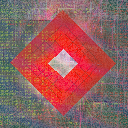
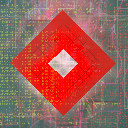
Implement static, part 2

diff --git a/jars/src/org/histidine/chatter/combat/ChatterCombatPlugin.java b/jars/src/org/histidine/chatter/combat/ChatterCombatPlugin.java
@@ -50,6 +50,7 @@ import org.histidine.chatter.ChatterLine;
 import org.histidine.chatter.ChatterLine.MessageType;
 import org.histidine.chatter.ChatterDataManager;
 import org.histidine.chatter.utils.StringHelper;
+import org.lazywizard.lazylib.MathUtils;
 import org.lazywizard.lazylib.ui.FontException;
 import org.lazywizard.lazylib.ui.LazyFont;
 import org.lazywizard.lazylib.ui.LazyFont.DrawableString;
@@ -723,16 +724,19 @@ public class ChatterCombatPlugin implements EveryFrameCombatPlugin {
 			String name = fleet.getMemoryWithoutUpdate().getString("$chatter_introSplash_name");
 			String sprite = fleet.getMemoryWithoutUpdate().getString("$chatter_introSplash_sprite");
 			String sound = fleet.getMemoryWithoutUpdate().getString("$chatter_introSplash_sound");
+			Boolean hasStatic = null;
+			if (fleet.getMemoryWithoutUpdate().contains("$chatter_introSplash_maxPlayerStrength"))
+				hasStatic = fleet.getMemoryWithoutUpdate().getBoolean("$chatter_introSplash_static");
 			Float maxStrength = null;
 			if (fleet.getMemoryWithoutUpdate().contains("$chatter_introSplash_maxPlayerStrength"))
-				fleet.getMemoryWithoutUpdate().getFloat("$chatter_introSplash_maxPlayerStrength");
+				maxStrength = fleet.getMemoryWithoutUpdate().getFloat("$chatter_introSplash_maxPlayerStrength");
 			
 			// Don't show splash if the player's fleet sufficiently overpowers the "boss" fleet
 			if (maxStrength != null && maxStrength < playerStrength)
 				continue;
 			
 			// this fleet has custom intro settings, it's a priority
-			if (name != null || sprite != null || maxStrength != null || sound != null) 
+			if (name != null || sprite != null || maxStrength != null || sound != null || hasStatic != null) 
 			{
 				return fleet;
 			}
@@ -797,27 +801,32 @@ public class ChatterCombatPlugin implements EveryFrameCombatPlugin {
 			log.info("Picked fleet " + enemy.getNameWithFactionKeepCase());
 
 			lastBattleHash = enemy.hashCode();
+			String flag = enemy.getFlagship().getHullId();
 
 			String name = enemy.getMemoryWithoutUpdate().getString("$chatter_introSplash_name");
 			if (name == null && enemy.getFlagship() != null) 
-				name = MagicSettings.getStringMap("chatter", "flagshipToNameMap").get(enemy.getFlagship().getHullId());
+				name = MagicSettings.getStringMap("chatter", "flagshipToNameMap").get(flag);
 			if (name == null && enemy.getName() != null) name = enemy.getName().toUpperCase();
 			if (name == null) name = "ERROR no name found";
 			
 			String image = enemy.getMemoryWithoutUpdate().getString("$chatter_introSplash_sprite");
 			if (image == null && enemy.getFlagship() != null) 
-				image = MagicSettings.getStringMap("chatter", "flagshipToLogoMap").get(enemy.getFlagship().getHullId());
+				image = MagicSettings.getStringMap("chatter", "flagshipToLogoMap").get(flag);
 			if (image == null) image = MagicSettings.getStringMap("chatter", "factionRoundels").get(enemy.getFaction().getId());
 			if (image == null) image = enemy.getFaction().getCrest();
 			
 			String sound = enemy.getMemoryWithoutUpdate().getString("$chatter_introSplash_sound");
 			if (sound == null && enemy.getFlagship() != null) 
-				sound = MagicSettings.getStringMap("chatter", "flagshipToSoundMap").get(enemy.getFlagship().getHullId());
+				sound = MagicSettings.getStringMap("chatter", "flagshipToSoundMap").get(flag);
 			if (sound == null) sound = MagicSettings.getStringMap("chatter", "factionSounds").get(enemy.getFaction().getId());
 			
 			intro = new FleetIntro(name, image, sound);
-		} else {
-			return;
+			
+			if (enemy.getMemoryWithoutUpdate().contains("$chatter_introSplash_maxPlayerStrength"))
+				intro.hasStatic = enemy.getMemoryWithoutUpdate().getBoolean("$chatter_introSplash_static");
+			else if (MagicSettings.getList("chatter", "flagshipsWithStatic").contains(flag)) {
+				intro.hasStatic = true;
+			}
 		}
 	}
 	
@@ -1348,6 +1357,7 @@ public class ChatterCombatPlugin implements EveryFrameCombatPlugin {
 		GL11.glPushAttrib(GL11.GL_ALL_ATTRIB_BITS);
 		GL11.glMatrixMode(GL11.GL_PROJECTION);
 		GL11.glPushMatrix();
+		GL11.glEnable(GL11.GL_BLEND);
 		GL11.glLoadIdentity();
 		GL11.glViewport(0, 0, Display.getWidth(), Display.getHeight());
 		GL11.glOrtho(0.0, Display.getWidth(), 0.0, Display.getHeight(), -1.0, 1.0);
@@ -1365,8 +1375,54 @@ public class ChatterCombatPlugin implements EveryFrameCombatPlugin {
 		GL11.glVertex2i(-halfX, -halfY);
 		GL11.glColor4f(1, 1, 1, 1);
 		GL11.glEnd();
+		GL11.glDisable(GL11.GL_BLEND);
 		GL11.glPopMatrix();
 		GL11.glPopAttrib();
+	}
+	
+	public static final int SPOT_MIN_SIZE = 3;
+	public static final int SPOT_MAX_SIZE = 12;
+	public static final WeightedRandomPicker<Float[]> SPOT_COLOR = new WeightedRandomPicker<>();
+	
+	static {
+		SPOT_COLOR.add(new Float[] {1f, 0f, 0f});
+		SPOT_COLOR.add(new Float[] {0f, 1f, 0f});
+		SPOT_COLOR.add(new Float[] {0f, 0f, 1f});
+	}
+	
+	public void drawIntroStatic() {
+		if (intro == null) return;
+		float sizeMult = intro.getSizeMult();
+		if (sizeMult <= 0) {
+			return;
+		}
+		if (!intro.hasStatic) return;
+		
+		GL11.glPushMatrix();
+		GL11.glTranslatef(Display.getWidth()/2, Display.getHeight()/2, 0);
+		GL11.glEnable(GL11.GL_BLEND);
+		int maxDist = Math.round(Display.getHeight() * SPLASH_IMAGE_HEIGHT / 2);
+		
+		int numSpots = MathUtils.getRandomNumberInRange(64, 256);
+		float alpha = intro.getAlphaMult() * 0.6f;
+		for (int i=0; i<numSpots; i++) {
+			int x = MathUtils.getRandomNumberInRange(-maxDist, maxDist);
+			int y = MathUtils.getRandomNumberInRange(-maxDist, maxDist);
+			float w = MathUtils.getRandomNumberInRange(SPOT_MIN_SIZE, SPOT_MAX_SIZE)/2;
+			float h = MathUtils.getRandomNumberInRange(SPOT_MIN_SIZE, SPOT_MAX_SIZE)/2;
+			
+			Float [] color = SPOT_COLOR.pick();
+			GL11.glColor4f(color[0], color[1], color[2], alpha);
+			GL11.glBegin(GL11.GL_POLYGON);
+			GL11.glVertex2f(x-w, y-h);
+			GL11.glVertex2f(x+w, y-h);
+			GL11.glVertex2f(x+w, y+h);
+			GL11.glVertex2f(x-w, y+h);
+			GL11.glEnd();
+		}
+		GL11.glColor4f(1, 1, 1, 1);
+		GL11.glDisable(GL11.GL_BLEND);
+		GL11.glPopMatrix();
 	}
 	
 	/**
@@ -1441,9 +1497,11 @@ public class ChatterCombatPlugin implements EveryFrameCombatPlugin {
 		DrawableString str = fontIntro.createText(StringHelper.getString("chatter_general", "fleetIntroMessage"), 
 				getColorWithAlpha(Color.YELLOW, alpha), baseHeight, textMaxWidth);
 		GL11.glPushMatrix();
+		GL11.glEnable(GL11.GL_BLEND);
 		GL11.glScalef(sizeMult, 1, 1);
 		GL11.glTranslatef(-str.getWidth()/2, str.getHeight(), 0);
 		str.draw(0, 0);
+		GL11.glDisable(GL11.GL_BLEND);
 		GL11.glPopMatrix();
 		
 		// shrink text to fit in the box
@@ -1486,6 +1544,7 @@ public class ChatterCombatPlugin implements EveryFrameCombatPlugin {
 		
 		drawBox();
 		drawIntroBox();
+		drawIntroStatic();
 	}
 
 	@Override
